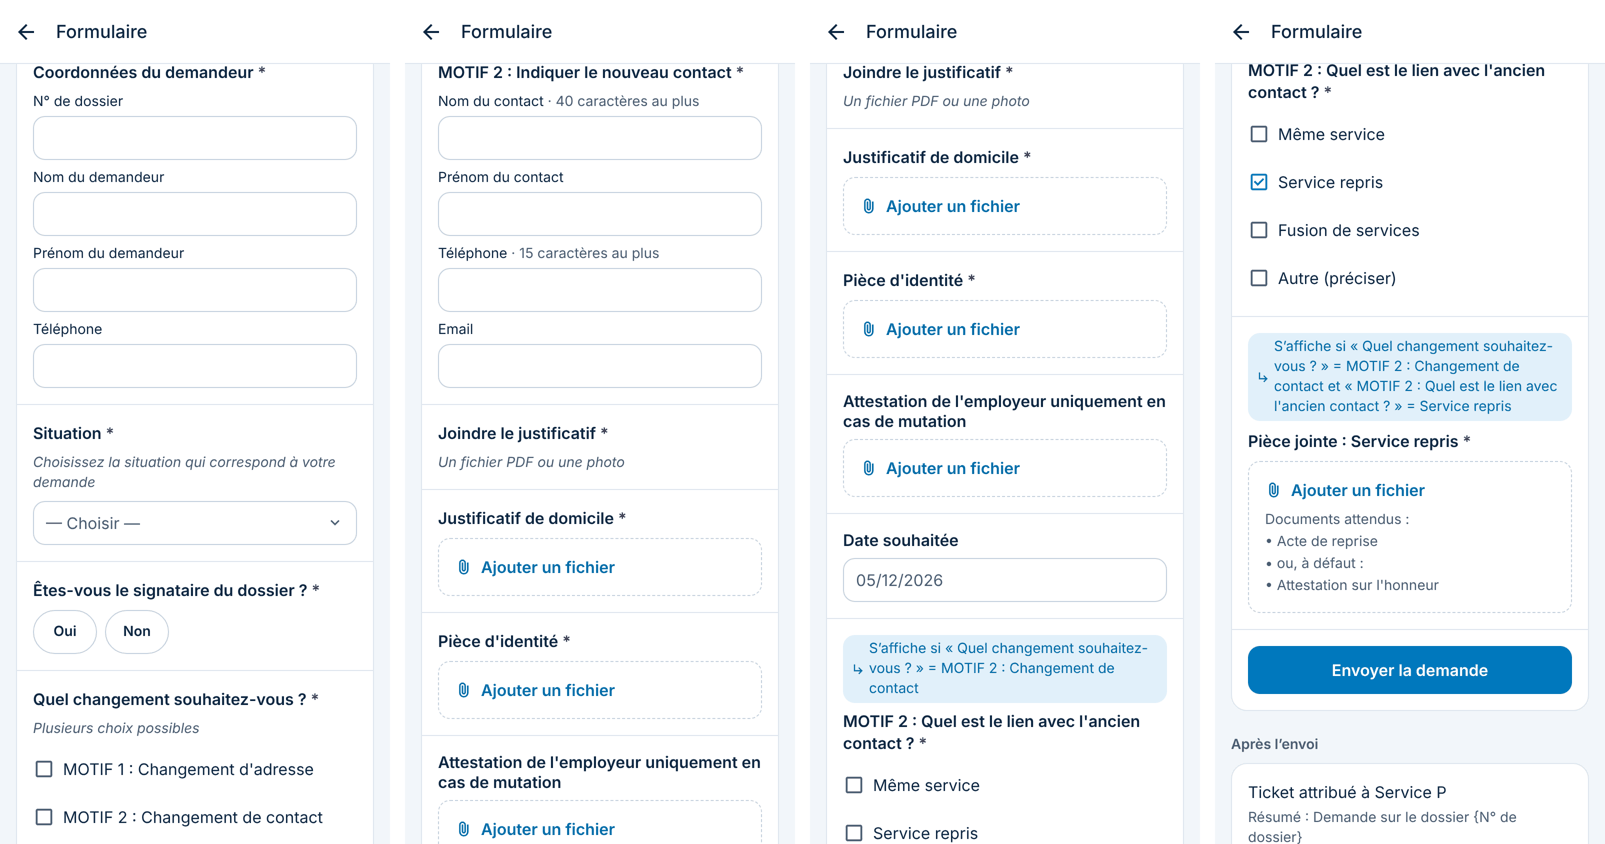
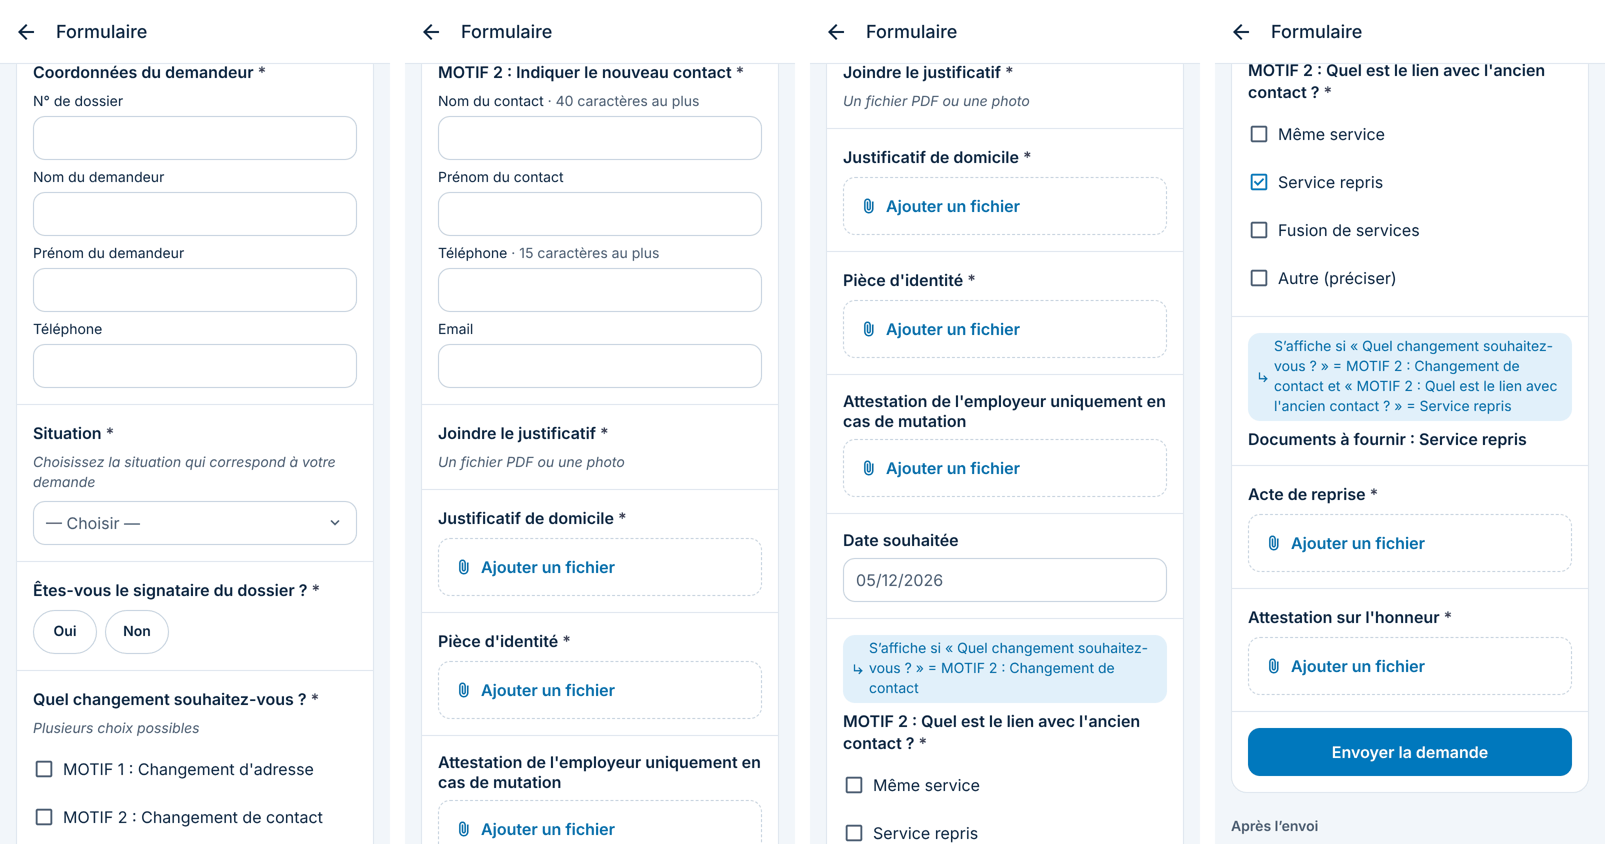
Formulaire : une pièce jointe par document pour chaque choix coché
Sous des cases à cocher, « Dans le cas de X » donne maintenant un titre
« Documents à fournir : X » puis une pièce jointe obligatoire par document,
au lieu d'une seule pièce jointe pour tous (« ou par défaut » est ignoré :
chaque document est demandé). Une suite de questions à la même condition
n'affiche la pastille « S'affiche si » qu'une fois.

Claude-Session: https://claude.ai/code/session_016W3P9QUx8H2u5VFpAFhRzF

Changed region(s): [[0.7788, 0.4929, 0.9969, 0.8318], [0.7477, 0.8626, 0.9969, 1.0]]

diff --git a/src/import/tableau/modeles/formulaire.ts b/src/import/tableau/modeles/formulaire.ts
@@ -26,8 +26,8 @@
  * - une pièce jointe qui liste plusieurs documents devient une pièce jointe
  *   par document, obligatoire sauf si le document dit « uniquement », « si »,
  *   « facultatif » ou « optionnel » ;
- * - sous des choix, « Dans le cas de X » suivi de documents ajoute une pièce
- *   jointe qui s'affiche quand le choix X est coché.
+ * - sous des choix, « Dans le cas de X » suivi de documents ajoute un titre
+ *   et une pièce jointe par document, affichés quand le choix X est coché.
  * Fonctions pures, testées dans __tests__/formulaire.test.ts.
  */
 
@@ -322,7 +322,7 @@ function fieldLimits(fields: string[], limits: { name: string; max: number }[]):
 
 export type CaseDocuments = { name: string; documents: string[] };
 
-/** « Dans le cas de la fusion » puis ses documents ; « ou par défaut : » reste dans la liste. */
+/** « Dans le cas de la fusion » puis ses documents (« ou par défaut : » est ignoré : chaque document est demandé). */
 function readCases(rest: string[]): CaseDocuments[] {
   const cases: CaseDocuments[] = [];
   for (const line of rest) {
@@ -330,9 +330,7 @@ function readCases(rest: string[]): CaseDocuments[] {
     if (start) {
       cases.push({ name: start[1].trim(), documents: [] });
     } else if (cases.length > 0) {
-      const text = line.replace(BULLET, '').trim();
-      if (/^ou\b/i.test(norm(text))) cases[cases.length - 1].documents.push('ou, à défaut :');
-      else if (BULLET.test(line)) cases[cases.length - 1].documents.push(text);
+      if (BULLET.test(line)) cases[cases.length - 1].documents.push(line.replace(BULLET, '').trim());
     }
   }
   return cases.filter((item) => item.documents.length > 0);
@@ -526,12 +524,13 @@ function expandDocuments(
         warn('orange', `Documents « ${item.name} » sans choix correspondant.`, question.cell, 'À quel choix ces documents correspondent-ils ?');
         continue;
       }
-      out.push(
-        attachment(question, `Pièce jointe : ${option}`, cases.required, item.documents, [
-          ...question.conditions,
-          { question: question.n, equals: option },
-        ]),
-      );
+      // Un titre, puis une pièce jointe par document, affichés quand le choix est coché.
+      const conditions = [...question.conditions, { question: question.n, equals: option }];
+      out.push({
+        question: { ...attachment(question, `Documents à fournir : ${option}`, false, [], conditions).question, type: 'label' as const },
+        from: null,
+      });
+      for (const document of item.documents) out.push(attachment(question, document, cases.required, [], conditions));
     }
   }
   const renumber = new Map<number, number>();

diff --git a/src/import/tableau/__tests__/formulaire.test.ts b/src/import/tableau/__tests__/formulaire.test.ts
@@ -43,8 +43,11 @@ describe('template d’exemple', () => {
       [12, 'date', false],
       [13, 'text', true],
       [14, 'checkbox', true],
-      [15, 'attachment', true],
+      [15, 'label', false],
       [16, 'attachment', true],
+      [17, 'attachment', true],
+      [18, 'label', false],
+      [19, 'attachment', true],
     ]);
     const [coordonnees, situation, , , changement, adresse, , , domicile, , , date] = template.questions;
     expect(coordonnees.fields).toEqual(['N° de dossier', 'Nom du demandeur', 'Prénom du demandeur', 'Téléphone']);
@@ -100,18 +103,25 @@ describe('règles de lecture', () => {
     ]);
   });
 
-  it('ajoute les documents de chaque choix, affichés quand ce choix est coché', () => {
+  it('ajoute un titre et une pièce jointe par document pour chaque choix, affichés quand ce choix est coché', () => {
     const lien = byLabel("MOTIF 2 : Quel est le lien avec l'ancien contact ?");
     expect(lien.options).toEqual(['Même service', 'Service repris', 'Fusion de services', 'Autre (préciser)']);
-    const repris = byLabel('Pièce jointe : Service repris');
-    expect(repris).toMatchObject({ type: 'attachment', mandatory: true, documents: ['Acte de reprise', 'ou, à défaut :', "Attestation sur l'honneur"] });
-    expect(repris.conditions).toEqual([
+    const after = template.questions.slice(lien.n, lien.n + 5);
+    expect(after.map(({ label, type, mandatory }) => [label, type, mandatory])).toEqual([
+      ['Documents à fournir : Service repris', 'label', false],
+      ['Acte de reprise', 'attachment', true],
+      ["Attestation sur l'honneur", 'attachment', true],
+      ['Documents à fournir : Fusion de services', 'label', false],
+      ['Procès-verbal de fusion', 'attachment', true],
+    ]);
+    const acte = after[1];
+    expect(acte.conditions).toEqual([
       { question: 5, equals: 'MOTIF 2 : Changement de contact' },
       { question: lien.n, equals: 'Service repris' },
     ]);
     const motif2 = ['MOTIF 2 : Changement de contact'];
-    expect(isQuestionVisible(repris, new Map<number, string[]>([[5, motif2], [lien.n, ['Même service']]]))).toBe(false);
-    expect(isQuestionVisible(repris, new Map<number, string[]>([[5, motif2], [lien.n, ['Service repris']]]))).toBe(true);
+    expect(isQuestionVisible(acte, new Map<number, string[]>([[5, motif2], [lien.n, ['Même service']]]))).toBe(false);
+    expect(isQuestionVisible(acte, new Map<number, string[]>([[5, motif2], [lien.n, ['Service repris']]]))).toBe(true);
   });
 });
 

diff --git a/src/components/form-field.tsx b/src/components/form-field.tsx
@@ -61,7 +61,10 @@ export function FormField({
   const theme = useTheme();
   const [title, ...rest] = question.label.split('\n');
   const subtitle = rest.join('\n').trim();
-  const condition = conditionText(question, questions);
+  // Une suite de questions à la même condition ne la montre qu'une fois, sur la première.
+  const previous = questions[questions.findIndex((item) => item.n === question.n) - 1];
+  const sameAsPrevious = previous !== undefined && JSON.stringify(previous.conditions) === JSON.stringify(question.conditions);
+  const condition = sameAsPrevious ? null : conditionText(question, questions);
 
   if (question.type === 'break') {
     return <View style={[styles.break, { backgroundColor: theme.border }]} accessibilityRole="none" />;

diff --git a/src/import/tableau/__tests__/reponses.test.ts b/src/import/tableau/__tests__/reponses.test.ts
@@ -50,7 +50,7 @@ describe('questions affichées', () => {
     expect(numbers({})).toEqual([1, 2, 3, 5, 8, 9, 10, 11, 12]);
     expect(numbers({ 3: 'Non' })).toEqual([1, 2, 3, 4, 5, 8, 9, 10, 11, 12]);
     expect(numbers({ 2: 'Cas 3', 5: ['MOTIF 2 : Changement de contact'] })).toEqual([1, 2, 3, 5, 7, 8, 9, 10, 11, 12, 13, 14]);
-    expect(numbers({ 5: ['MOTIF 2 : Changement de contact'], 14: ['Service repris'] })).toContain(15);
+    expect(numbers({ 5: ['MOTIF 2 : Changement de contact'], 14: ['Service repris'] })).toContain(16);
   });
 
   it('ne tient pas compte de la réponse d’une question cachée', () => {

diff --git a/src/import/tableau/__tests__/lien.test.ts b/src/import/tableau/__tests__/lien.test.ts
@@ -18,7 +18,7 @@ const { situations } = workbookToSituations(workbook);
 describe('formulaire et workflow dans un même classeur', () => {
   it('reconnaît le classeur comme un formulaire avec son workflow', () => {
     expect(describeWorkbook(workbook).kind).toBe('formulaire-workflow');
-    expect(form.questions).toHaveLength(16);
+    expect(form.questions).toHaveLength(19);
     expect(situations).toHaveLength(6);
   });
 

diff --git a/docs/technique.md b/docs/technique.md
@@ -188,10 +188,10 @@ Les étapes sont rangées dans l'ordre de lecture (de haut en bas, puis de gauch
   - **Onglets**, trouvés par leur nom sans numéro (`bareSheetName`) : « Basic info » (nom, description, type de ticket, mots clés), « Questions », « Fulfillment flow » (tasks : titre, groupe, séquence) et « Assignment & Summary » (groupe propriétaire, résumé du ticket). Dans « Basic info » et « Assignment », la valeur est lue dans la colonne « Your Value » (ou « Valeur »), sinon en seconde case d'une ligne de deux.
   - **Questions** (`readRecords`). Disposition d'un vrai template : une colonne par question (« Question 1 », « Question 2 »…, et les colonnes remplies d'après même sans titre), une ligne par propriété, reconnue à son intitulé : nom, format, obligatoire, explication, conditions, aide (« en italique »), exemple. La disposition inverse (une ligne par question, une colonne par propriété) est lue aussi. Les questions sans rien d'écrit sont ignorées.
   - **Types** (`questionType`), en français ou en anglais : texte sur une ligne ou plusieurs, oui / non, menu déroulant, cases à cocher, liste, échelle, référence, date, date et heure, email, lien, adresse IP, pièce jointe, libellé, texte mis en forme, section, séparateur. L'explication donne, selon le type, les **choix** (lignes à tiret, ou « Cas 1, Cas 2 » sur une ligne), les **champs à remplir** d'un libellé (lignes qui finissent par « : », comme « Téléphone : ») ou les **documents attendus** d'une pièce jointe.
-  - **Règles de lecture** (valables pour tout template ; les templates mêlent au formulaire des notes pour l'équipe qui le construira). `splitField` : « Nom / Prénom du contact » donne « Nom du contact » et « Prénom du contact ». Un rappel (`REMINDER` : ligne qui commence par « ! » ou parle de « Nbre de caractères ») arrête la lecture des champs ; `readLimits` y lit les longueurs (« Raison Sociale 40 », « CP 5 ») et `fieldLimits` donne à chaque champ la plus précise dont le nom est dans le sien (`limits` de la question : `maxLength` du champ et « 40 caractères au plus » à côté de son nom) ; le rappel devient un avertissement « info » (« Rappel pour l'équipe, retiré du formulaire »). Sous des choix, la lecture des choix s'arrête à « Dans le cas », « Pièce jointe » ou « Documents » (`CASES_START`) ; `readCases` lit chaque « Dans le cas de X » et ses documents (« ou par défaut » reste dans la liste). Puis `expandDocuments` : une pièce jointe qui liste plusieurs documents devient un libellé suivi d'une pièce jointe par document (obligatoire sauf « uniquement », « si », « facultatif », « optionnel », `OPTIONAL_DOCUMENT`), et chaque « cas » ajoute après la question à choix une pièce jointe « Pièce jointe : choix » conditionnée au choix (obligatoire si le texte dit « obligatoire » ; un cas sans choix correspondant donne un avertissement orange). Les questions sont renumérotées, conditions comprises.
+  - **Règles de lecture** (valables pour tout template ; les templates mêlent au formulaire des notes pour l'équipe qui le construira). `splitField` : « Nom / Prénom du contact » donne « Nom du contact » et « Prénom du contact ». Un rappel (`REMINDER` : ligne qui commence par « ! » ou parle de « Nbre de caractères ») arrête la lecture des champs ; `readLimits` y lit les longueurs (« Raison Sociale 40 », « CP 5 ») et `fieldLimits` donne à chaque champ la plus précise dont le nom est dans le sien (`limits` de la question : `maxLength` du champ et « 40 caractères au plus » à côté de son nom) ; le rappel devient un avertissement « info » (« Rappel pour l'équipe, retiré du formulaire »). Sous des choix, la lecture des choix s'arrête à « Dans le cas », « Pièce jointe » ou « Documents » (`CASES_START`) ; `readCases` lit chaque « Dans le cas de X » et ses documents (une ligne « ou par défaut » est ignorée : chaque document est demandé). Puis `expandDocuments` : une pièce jointe qui liste plusieurs documents devient un libellé suivi d'une pièce jointe par document (obligatoire sauf « uniquement », « si », « facultatif », « optionnel », `OPTIONAL_DOCUMENT`), et chaque « cas » ajoute après la question à choix un titre « Documents à fournir : choix » puis une pièce jointe par document, conditionnés au choix (obligatoires si le texte dit « obligatoire » ; un cas sans choix correspondant donne un avertissement orange). Les questions sont renumérotées, conditions comprises. À l'écran, une suite de questions à la même condition n'affiche la pastille « S'affiche si » que sur la première.
   - **Conditions d'affichage** : la ligne « Conditions » (« Si Question 2 = Cas 3 », plusieurs reliées par « et ») ; sinon l'intitulé, où les vrais templates les écrivent : « Si OUI : … », « Si NON : … » et « Reprise = NON » suivent la question oui / non précédente ; « MOTIF 2 : … » suit le choix « MOTIF 2 » d'une question précédente (cases à cocher, menu). Toutes doivent être vraies. `isQuestionVisible(question, réponses)` dit si une question s'affiche (une réponse de cases à cocher est la liste des choix cochés).
   - **Avertissements**, avec l'onglet et la cellule : format inconnu (affiché comme un texte), question sans format (affichée comme un libellé, simple information), menu déroulant sans choix, condition non comprise, préfixe « MOTIF » ou « Si OUI » sans question qui lui réponde, template encore vide.
-  - **Vérifié** en privé sur deux vrais templates (jamais versionnés) : les 21 questions du premier sont lues avec leur type, leurs champs, leurs documents et leurs conditions (28 après les règles de lecture : quatre pièces jointes pour les documents d'une cession, la dernière facultative, trois pour les documents de chaque lien juridique, nom et prénom séparés, quatre rappels de longueurs retirés) ; le second, vide, donne l'avertissement attendu.
+  - **Vérifié** en privé sur deux vrais templates (jamais versionnés) : les 21 questions du premier sont lues avec leur type, leurs champs, leurs documents et leurs conditions (28 après les règles de lecture : quatre pièces jointes pour les documents d'une cession, la dernière facultative, un titre et une pièce jointe obligatoire par document pour chaque lien juridique (trois, deux et une), nom et prénom séparés, quatre rappels de longueurs retirés) ; le second, vide, donne l'avertissement attendu.
 - **Process d'un classeur** (`index.ts`, `workbookToProcesses`) : un process par onglet « process », avec des identifiants distincts ; les remarques d'un onglet sont précédées de son nom quand il y en a plusieurs.
 
 **Tests** (`tableau/__tests__/`). Un classeur fabriqué en code (`tableau/__fixtures__/classeur.ts`) avec textes partagés et enrichis, texte en ligne, booléen, formule, dates, fusion, onglet masqué écrit avec un préfixe d'espace de noms et onglet graphique ; les vrais classeurs fictifs de `docs/exemples/` enregistrés par un tableur ; les CSV (guillemets, encodages) ; la reconnaissance de chaque genre d'onglet et les fichiers refusés ; le tableau de process d'exemple en .xlsx et .csv (titre, rôles, acteurs, délais, branches « oui » / « non »), un acteur fusionné, un tableau suivi d'une note, plusieurs onglets avec leurs remarques ; `tableau-a-completer.xlsx` d'abord non reconnu, puis lu avec les colonnes choisies, refusé sans colonne Étape, et reconnu seul grâce aux titres appris ; pour les workflows SLA / OLA (`sla-ola.test.ts`), l'exemple fictif de la spécification (escalade, une étape avec colonnes décalées et reprise en main), chaque variante, les contrôles (SLA différent de la somme des OLA, étape 2 annoncée sans groupe, SLA ou groupe absent, marge, « Si pas complexe »), la famille fusionnée, les colonnes sans titre, le classement de chaque genre de cellule et les six situations de `workflow-sla-ola.xlsx` ; pour les parcours (`parcours.test.ts`), le process de chaque variante sur l'exemple (étapes, acteurs, délais, liens oui / non, pas de task 2 inventée pour une reprise en main, décision « Cas complexe ? »), une situation sans SLA ni groupe, le chemin critique simulé égal à OLA 1 + OLA 2, les noms et identifiants uniques, et le niveau de chaque situation ; pour les templates de formulaire (`formulaire.test.ts`), le template d'exemple (informations, tasks, type et contenu de chaque question, conditions, affichage selon les réponses), les règles de lecture (nom et prénom séparés, rappel de longueurs retiré et appliqué, une pièce jointe par document, documents d'un choix coché), les conditions « Si OUI » et « X = NON », une question sans titre de colonne, la disposition une ligne par question, les avertissements, un template vide et les formats en français et en anglais ; pour le remplissage (`reponses.test.ts`), les questions affichées selon les réponses (une réponse à une question cachée ne compte pas), les réponses obligatoires manquantes, les champs d'un libellé, les formats (e-mail, adresse web, IP, date, date et heure), les questions sans réponse attendue et le récapitulatif.

diff --git a/docs/fonctionnalites.md b/docs/fonctionnalites.md
@@ -97,9 +97,9 @@ Un onglet qui décrit un process (des colonnes Étape, Acteur, Délai, Suite, co
 - « Nom / Prénom du contact » devient deux cases, **Nom du contact** et **Prénom du contact**.
 - Un rappel comme « !!!!! Nbre de caractères maximum… » n'apparaît plus dans le formulaire. Les longueurs qu'il donne s'appliquent aux champs du même nom (« Nom du contact · 40 caractères au plus »), et le rappel est gardé dans **Points à vérifier dans le template**.
 - Une pièce jointe qui liste plusieurs documents devient **une pièce jointe par document**, chacune obligatoire, sauf un document qui ne sert que dans un cas (« uniquement… », « si… », « facultatif »).
-- Sous des cases à cocher, « Dans le cas de X » suivi de documents ajoute une pièce jointe qui n'apparaît que si X est coché.
+- Sous des cases à cocher, « Dans le cas de X » suivi de documents ajoute, quand X est coché, un titre « Documents à fournir : X » et **une pièce jointe obligatoire par document** (« ou par défaut » n'y change rien : chaque document est demandé).
 
-![Nom et prénom séparés, longueurs appliquées, une pièce jointe par document, et les documents du choix coché](captures/etape-24-regles-formulaire.png)
+![Nom et prénom séparés, longueurs appliquées, une pièce jointe par document, et les documents du choix coché, un par pièce jointe](captures/etape-24-regles-formulaire.png)
 
 **Du formulaire au process.** L'app fait la différence toute seule :
 
